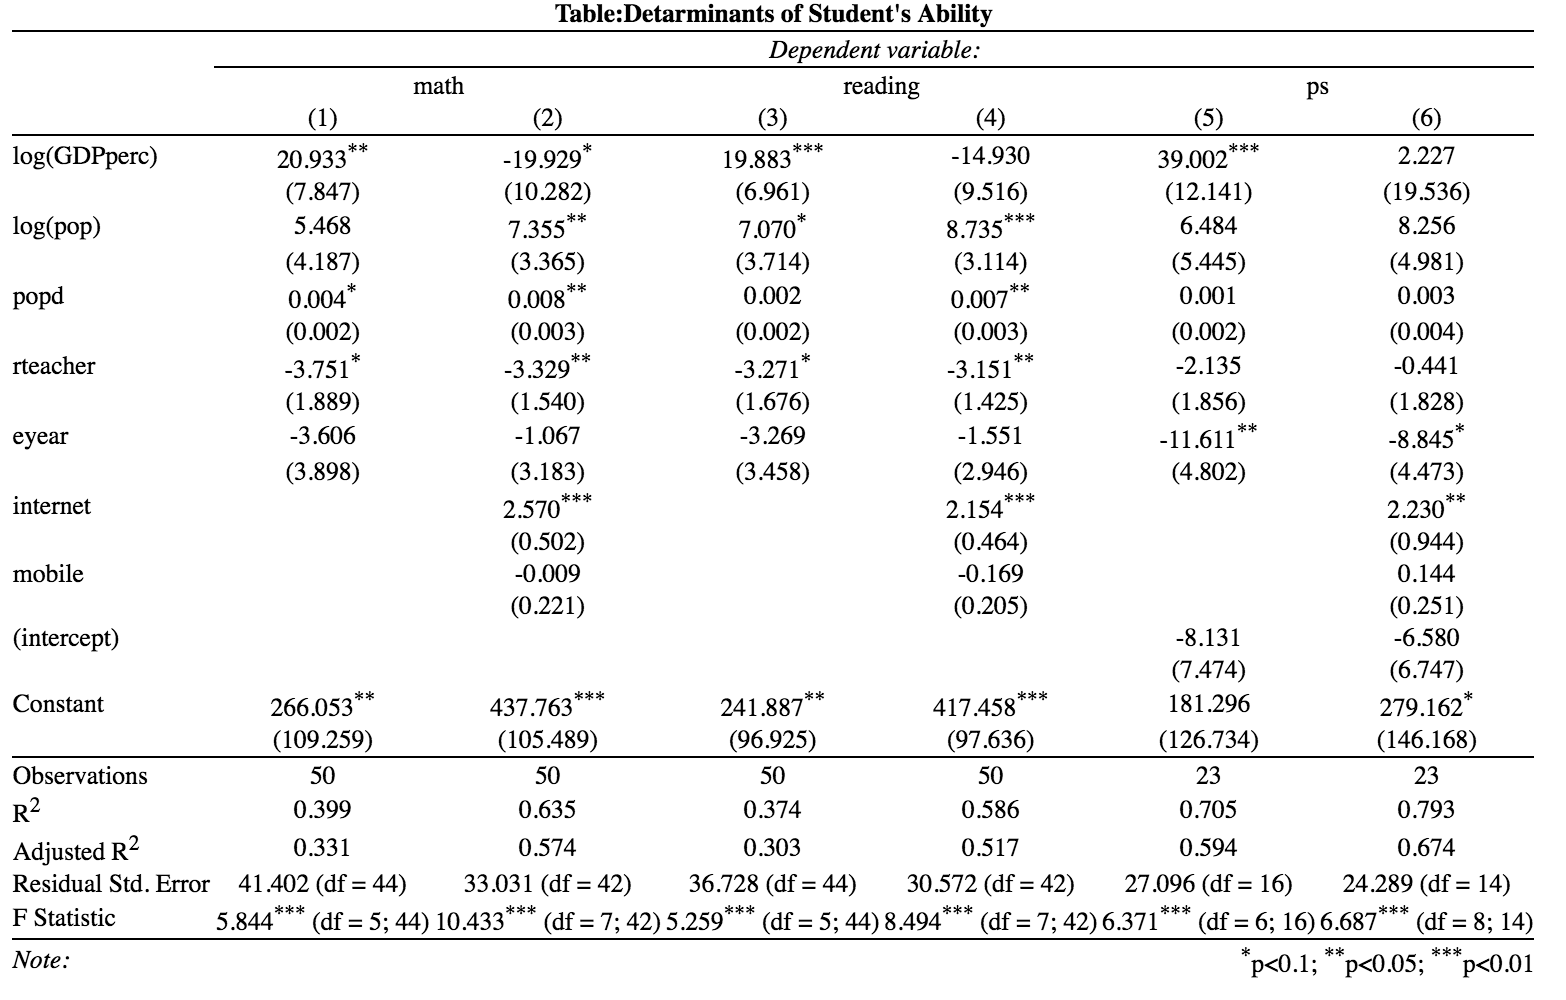
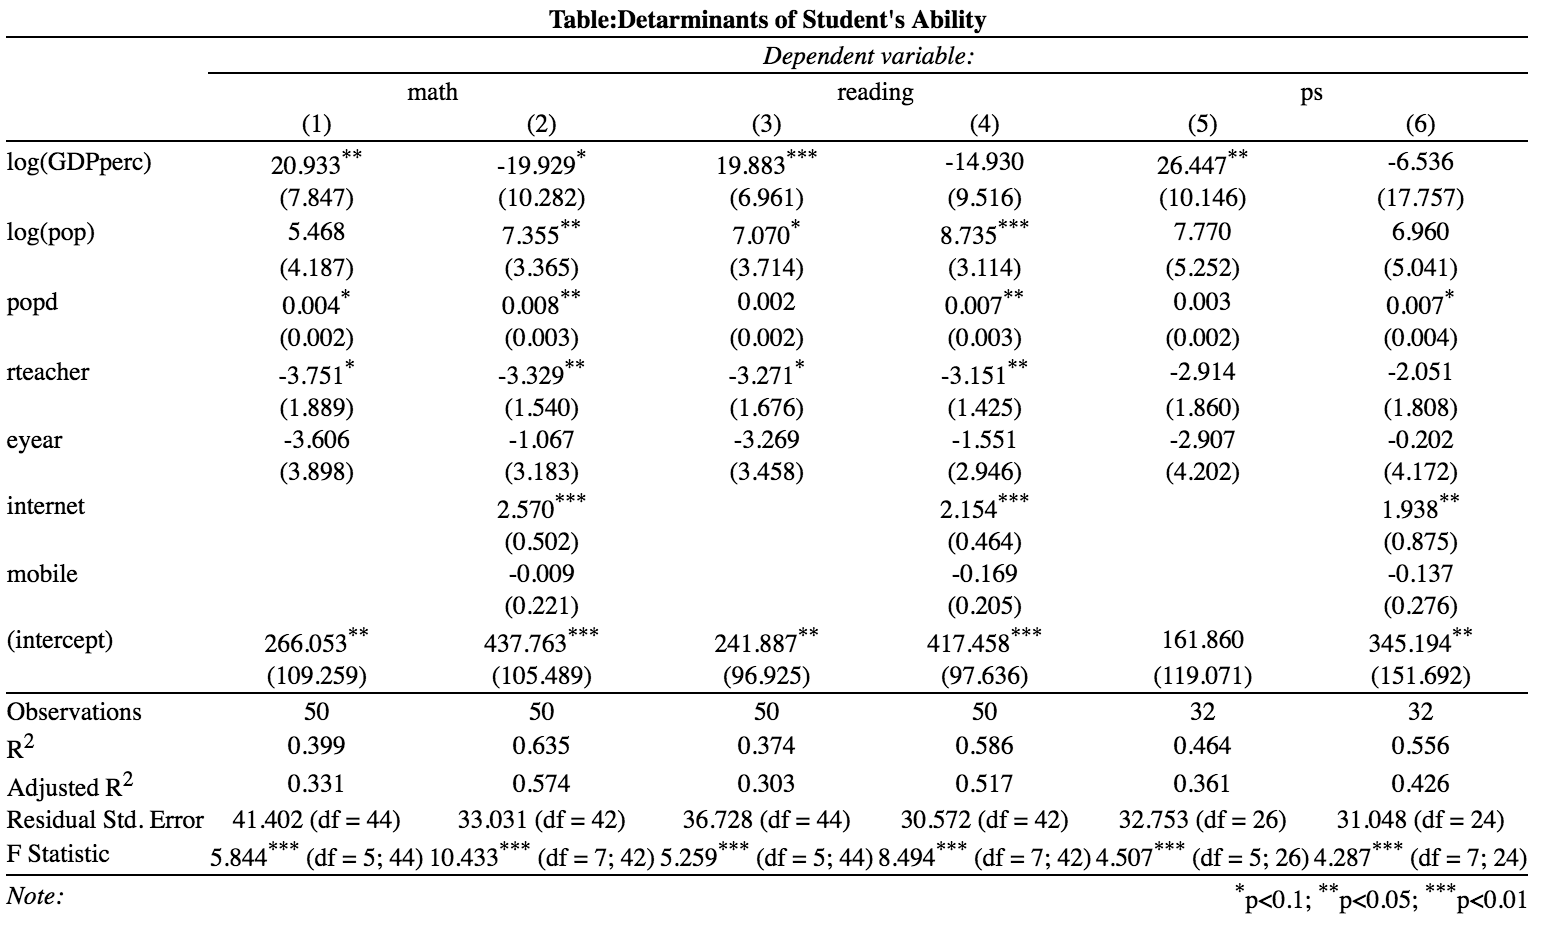
final slides

Changed region(s): [[0.0, 0.0, 0.9821, 0.9831], [0.0, 0.215, 0.0614, 0.3994]]

diff --git a/comparison 2 result.html b/comparison 2 result.html
@@ -4,28 +4,26 @@
 <tr><td></td><td colspan="6" style="border-bottom: 1px solid black"></td></tr>
 <tr><td style="text-align:left"></td><td colspan="2">math</td><td colspan="2">reading</td><td colspan="2">ps</td></tr>
 <tr><td style="text-align:left"></td><td>(1)</td><td>(2)</td><td>(3)</td><td>(4)</td><td>(5)</td><td>(6)</td></tr>
-<tr><td colspan="7" style="border-bottom: 1px solid black"></td></tr><tr><td style="text-align:left">log(GDPperc)</td><td>20.933<sup>**</sup></td><td>-19.929<sup>*</sup></td><td>19.883<sup>***</sup></td><td>-14.930</td><td>39.002<sup>***</sup></td><td>2.227</td></tr>
-<tr><td style="text-align:left"></td><td>(7.847)</td><td>(10.282)</td><td>(6.961)</td><td>(9.516)</td><td>(12.141)</td><td>(19.536)</td></tr>
-<tr><td style="text-align:left">log(pop)</td><td>5.468</td><td>7.355<sup>**</sup></td><td>7.070<sup>*</sup></td><td>8.735<sup>***</sup></td><td>6.484</td><td>8.256</td></tr>
-<tr><td style="text-align:left"></td><td>(4.187)</td><td>(3.365)</td><td>(3.714)</td><td>(3.114)</td><td>(5.445)</td><td>(4.981)</td></tr>
-<tr><td style="text-align:left">popd</td><td>0.004<sup>*</sup></td><td>0.008<sup>**</sup></td><td>0.002</td><td>0.007<sup>**</sup></td><td>0.001</td><td>0.003</td></tr>
+<tr><td colspan="7" style="border-bottom: 1px solid black"></td></tr><tr><td style="text-align:left">log(GDPperc)</td><td>20.933<sup>**</sup></td><td>-19.929<sup>*</sup></td><td>19.883<sup>***</sup></td><td>-14.930</td><td>26.447<sup>**</sup></td><td>-6.536</td></tr>
+<tr><td style="text-align:left"></td><td>(7.847)</td><td>(10.282)</td><td>(6.961)</td><td>(9.516)</td><td>(10.146)</td><td>(17.757)</td></tr>
+<tr><td style="text-align:left">log(pop)</td><td>5.468</td><td>7.355<sup>**</sup></td><td>7.070<sup>*</sup></td><td>8.735<sup>***</sup></td><td>7.770</td><td>6.960</td></tr>
+<tr><td style="text-align:left"></td><td>(4.187)</td><td>(3.365)</td><td>(3.714)</td><td>(3.114)</td><td>(5.252)</td><td>(5.041)</td></tr>
+<tr><td style="text-align:left">popd</td><td>0.004<sup>*</sup></td><td>0.008<sup>**</sup></td><td>0.002</td><td>0.007<sup>**</sup></td><td>0.003</td><td>0.007<sup>*</sup></td></tr>
 <tr><td style="text-align:left"></td><td>(0.002)</td><td>(0.003)</td><td>(0.002)</td><td>(0.003)</td><td>(0.002)</td><td>(0.004)</td></tr>
-<tr><td style="text-align:left">rteacher</td><td>-3.751<sup>*</sup></td><td>-3.329<sup>**</sup></td><td>-3.271<sup>*</sup></td><td>-3.151<sup>**</sup></td><td>-2.135</td><td>-0.441</td></tr>
-<tr><td style="text-align:left"></td><td>(1.889)</td><td>(1.540)</td><td>(1.676)</td><td>(1.425)</td><td>(1.856)</td><td>(1.828)</td></tr>
-<tr><td style="text-align:left">eyear</td><td>-3.606</td><td>-1.067</td><td>-3.269</td><td>-1.551</td><td>-11.611<sup>**</sup></td><td>-8.845<sup>*</sup></td></tr>
-<tr><td style="text-align:left"></td><td>(3.898)</td><td>(3.183)</td><td>(3.458)</td><td>(2.946)</td><td>(4.802)</td><td>(4.473)</td></tr>
-<tr><td style="text-align:left">internet</td><td></td><td>2.570<sup>***</sup></td><td></td><td>2.154<sup>***</sup></td><td></td><td>2.230<sup>**</sup></td></tr>
-<tr><td style="text-align:left"></td><td></td><td>(0.502)</td><td></td><td>(0.464)</td><td></td><td>(0.944)</td></tr>
-<tr><td style="text-align:left">mobile</td><td></td><td>-0.009</td><td></td><td>-0.169</td><td></td><td>0.144</td></tr>
-<tr><td style="text-align:left"></td><td></td><td>(0.221)</td><td></td><td>(0.205)</td><td></td><td>(0.251)</td></tr>
-<tr><td style="text-align:left">(intercept)</td><td></td><td></td><td></td><td></td><td>-8.131</td><td>-6.580</td></tr>
-<tr><td style="text-align:left"></td><td></td><td></td><td></td><td></td><td>(7.474)</td><td>(6.747)</td></tr>
-<tr><td style="text-align:left">Constant</td><td>266.053<sup>**</sup></td><td>437.763<sup>***</sup></td><td>241.887<sup>**</sup></td><td>417.458<sup>***</sup></td><td>181.296</td><td>279.162<sup>*</sup></td></tr>
-<tr><td style="text-align:left"></td><td>(109.259)</td><td>(105.489)</td><td>(96.925)</td><td>(97.636)</td><td>(126.734)</td><td>(146.168)</td></tr>
-<tr><td colspan="7" style="border-bottom: 1px solid black"></td></tr><tr><td style="text-align:left">Observations</td><td>50</td><td>50</td><td>50</td><td>50</td><td>23</td><td>23</td></tr>
-<tr><td style="text-align:left">R<sup>2</sup></td><td>0.399</td><td>0.635</td><td>0.374</td><td>0.586</td><td>0.705</td><td>0.793</td></tr>
-<tr><td style="text-align:left">Adjusted R<sup>2</sup></td><td>0.331</td><td>0.574</td><td>0.303</td><td>0.517</td><td>0.594</td><td>0.674</td></tr>
-<tr><td style="text-align:left">Residual Std. Error</td><td>41.402 (df = 44)</td><td>33.031 (df = 42)</td><td>36.728 (df = 44)</td><td>30.572 (df = 42)</td><td>27.096 (df = 16)</td><td>24.289 (df = 14)</td></tr>
-<tr><td style="text-align:left">F Statistic</td><td>5.844<sup>***</sup> (df = 5; 44)</td><td>10.433<sup>***</sup> (df = 7; 42)</td><td>5.259<sup>***</sup> (df = 5; 44)</td><td>8.494<sup>***</sup> (df = 7; 42)</td><td>6.371<sup>***</sup> (df = 6; 16)</td><td>6.687<sup>***</sup> (df = 8; 14)</td></tr>
+<tr><td style="text-align:left">rteacher</td><td>-3.751<sup>*</sup></td><td>-3.329<sup>**</sup></td><td>-3.271<sup>*</sup></td><td>-3.151<sup>**</sup></td><td>-2.914</td><td>-2.051</td></tr>
+<tr><td style="text-align:left"></td><td>(1.889)</td><td>(1.540)</td><td>(1.676)</td><td>(1.425)</td><td>(1.860)</td><td>(1.808)</td></tr>
+<tr><td style="text-align:left">eyear</td><td>-3.606</td><td>-1.067</td><td>-3.269</td><td>-1.551</td><td>-2.907</td><td>-0.202</td></tr>
+<tr><td style="text-align:left"></td><td>(3.898)</td><td>(3.183)</td><td>(3.458)</td><td>(2.946)</td><td>(4.202)</td><td>(4.172)</td></tr>
+<tr><td style="text-align:left">internet</td><td></td><td>2.570<sup>***</sup></td><td></td><td>2.154<sup>***</sup></td><td></td><td>1.938<sup>**</sup></td></tr>
+<tr><td style="text-align:left"></td><td></td><td>(0.502)</td><td></td><td>(0.464)</td><td></td><td>(0.875)</td></tr>
+<tr><td style="text-align:left">mobile</td><td></td><td>-0.009</td><td></td><td>-0.169</td><td></td><td>-0.137</td></tr>
+<tr><td style="text-align:left"></td><td></td><td>(0.221)</td><td></td><td>(0.205)</td><td></td><td>(0.276)</td></tr>
+<tr><td style="text-align:left">(intercept)</td><td>266.053<sup>**</sup></td><td>437.763<sup>***</sup></td><td>241.887<sup>**</sup></td><td>417.458<sup>***</sup></td><td>161.860</td><td>345.194<sup>**</sup></td></tr>
+<tr><td style="text-align:left"></td><td>(109.259)</td><td>(105.489)</td><td>(96.925)</td><td>(97.636)</td><td>(119.071)</td><td>(151.692)</td></tr>
+<tr><td colspan="7" style="border-bottom: 1px solid black"></td></tr><tr><td style="text-align:left">Observations</td><td>50</td><td>50</td><td>50</td><td>50</td><td>32</td><td>32</td></tr>
+<tr><td style="text-align:left">R<sup>2</sup></td><td>0.399</td><td>0.635</td><td>0.374</td><td>0.586</td><td>0.464</td><td>0.556</td></tr>
+<tr><td style="text-align:left">Adjusted R<sup>2</sup></td><td>0.331</td><td>0.574</td><td>0.303</td><td>0.517</td><td>0.361</td><td>0.426</td></tr>
+<tr><td style="text-align:left">Residual Std. Error</td><td>41.402 (df = 44)</td><td>33.031 (df = 42)</td><td>36.728 (df = 44)</td><td>30.572 (df = 42)</td><td>32.753 (df = 26)</td><td>31.048 (df = 24)</td></tr>
+<tr><td style="text-align:left">F Statistic</td><td>5.844<sup>***</sup> (df = 5; 44)</td><td>10.433<sup>***</sup> (df = 7; 42)</td><td>5.259<sup>***</sup> (df = 5; 44)</td><td>8.494<sup>***</sup> (df = 7; 42)</td><td>4.507<sup>***</sup> (df = 5; 26)</td><td>4.287<sup>***</sup> (df = 7; 24)</td></tr>
 <tr><td colspan="7" style="border-bottom: 1px solid black"></td></tr><tr><td style="text-align:left"><em>Note:</em></td><td colspan="6" style="text-align:right"><sup>*</sup>p<0.1; <sup>**</sup>p<0.05; <sup>***</sup>p<0.01</td></tr>
 </table>
